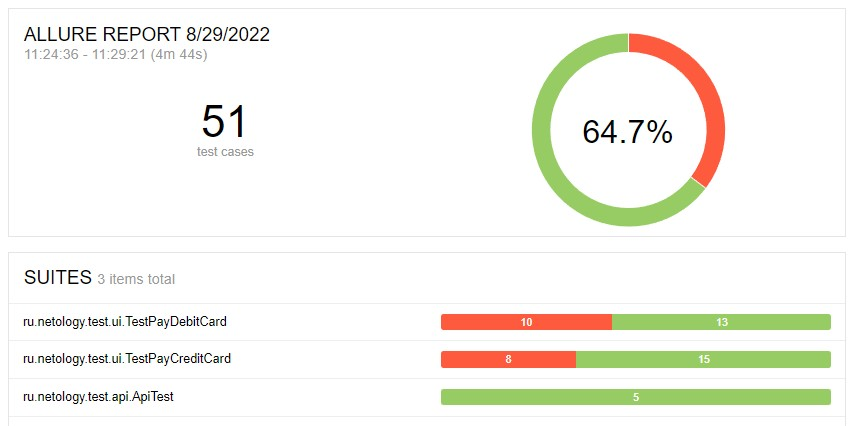
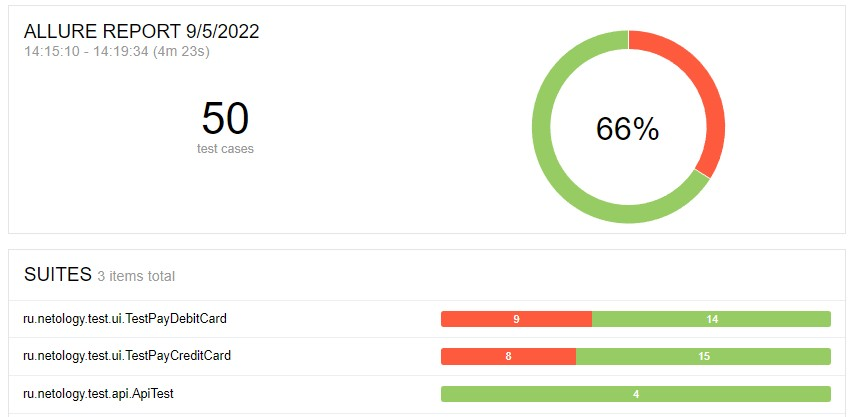
v4

diff --git a/src/test/java/ru.netology/page/AbstractPaymentPage.java b/src/test/java/ru.netology/page/AbstractPaymentPage.java
@@ -4,6 +4,7 @@ import com.codeborne.selenide.SelenideElement;
 import ru.netology.data.CardInfo;
 import java.time.Duration;
 
+import static com.codeborne.selenide.Condition.text;
 import static com.codeborne.selenide.Condition.visible;
 import static com.codeborne.selenide.Selectors.byText;
 import static com.codeborne.selenide.Selenide.$;
@@ -43,23 +44,19 @@ public abstract class AbstractPaymentPage {
     }
 
     public void sendingValidDataWithFieldCardNumberError (String error) {
-        assertEquals(error, fieldCardNumberError.getText());
-        fieldCardNumberError.shouldBe(visible);
+        fieldCardNumberError.shouldHave(text(error)).shouldBe(visible);
     }
 
     public void sendingValidDataWithFakerCardNumber (String error) {
-        assertEquals(error, notificationError.getText());
-        notificationError.shouldBe(visible, Duration.ofSeconds(15));
+        notificationError.shouldHave(text(error)).shouldBe(visible);
     }
 
     public void sendingValidDataWithFieldMonthError (String error) {
-        assertEquals(error, fieldMonthError.getText());
-        fieldMonthError.shouldBe(visible);
+        fieldMonthError.shouldHave(text(error)).shouldBe(visible);
     }
 
     public void sendingValidDataWithFieldYearError (String error) {
-        assertEquals(error, fieldYearError.getText());
-        fieldYearError.shouldBe(visible);
+        fieldYearError.shouldHave(text(error)).shouldBe(visible);
     }
 
     public void sendingEmptyNameValidData (CardInfo info) {
@@ -72,13 +69,11 @@ public abstract class AbstractPaymentPage {
     }
 
     public void sendingValidDataWithFieldNameError (String error) {
-        assertEquals(error, fieldOwnerError.getText());
-        fieldOwnerError.shouldBe(visible);
+        fieldOwnerError.shouldHave(text(error)).shouldBe(visible);
     }
 
     public void sendingValidDataWithFieldCVVError (String error) {
-        assertEquals(error, fieldCvcError.getText());
-        fieldCvcError.shouldBe(visible);
+        fieldCvcError.shouldHave(text(error)).shouldBe(visible);
     }
 
     public void sendEmptyForm() {

diff --git a/src/test/java/ru.netology/test/api/ApiTest.java b/src/test/java/ru.netology/test/api/ApiTest.java
@@ -12,6 +12,7 @@ import ru.netology.data.ApiHelper;
 import ru.netology.data.CardInfo;
 import ru.netology.data.DataHelper;
 import ru.netology.data.SQLHelper;
+import ru.netology.data.entity.CreditRequestEntity;
 import ru.netology.data.entity.OrderEntity;
 import ru.netology.data.entity.PaymentEntity;
 
@@ -21,8 +22,8 @@ import static ru.netology.data.ApiHelper.payByCard;
 public class ApiTest {
     CardInfo approvedCardInfo = DataHelper.getApprovedCard();
     CardInfo declinedCardInfo = DataHelper.getDeclinedCard();
-    String debitPath = "/payment";
-    String creditPath = "/credit";
+    String debitPath = "/api/v1/pay";
+    String creditPath = "/api/v1/credit";
 
     @BeforeAll
     public static void setUp() {
@@ -35,7 +36,7 @@ public class ApiTest {
 
     @BeforeEach
     public void prepare() {
-        //SQLHelper.databaseCleanUp();
+        SQLHelper.databaseCleanUp();
     }
 
 
@@ -56,8 +57,8 @@ public class ApiTest {
         CardInfo cardData = DataHelper.getApprovedCard();
         ApiHelper.payByCard(cardData, creditPath);
         OrderEntity order = SQLHelper.getOrderInfo();
-        PaymentEntity payment = SQLHelper.getPaymentInfo();
-        assertEquals(order.getPayment_id(), payment.getTransaction_id());
+        CreditRequestEntity payment = SQLHelper.getCreditRequestInfo();
+        assertEquals(order.getPayment_id(), payment.getBank_id());
         assertEquals("APPROVED", payment.getStatus());
     }
 
@@ -75,7 +76,7 @@ public class ApiTest {
     public void checkCreditPaymentInvalidCard() {
         CardInfo cardData = DataHelper.getDeclinedCard();
         ApiHelper.payByCard(cardData, creditPath);
-        PaymentEntity payment = SQLHelper.getPaymentInfo();
+        CreditRequestEntity payment = SQLHelper.getCreditRequestInfo();
         assertEquals("DECLINED", payment.getStatus());
     }
 }

diff --git a/src/test/java/ru.netology/data/Notification.java b/src/test/java/ru.netology/data/Notification.java
@@ -5,7 +5,7 @@ public class Notification {
     public static final String wrongFormatMsg = "Неверный формат";
     public static final String mustBeFilledMsg = "Поле обязательно для заполнения";
     public static final String invalidData = "Неверно указан срок действия карты";
-    public static final String expiredDate = "Истек срок действия карты";
+    public static final String expiredDate = "Истёк срок действия карты";
     public static final String declinedMsg = "Ошибка\n" +
             "Ошибка! Банк отказал в проведении операции.";
     public static final String approvedMsg = "Операция одобрена Банком.";

diff --git a/src/test/java/ru.netology/data/ApiHelper.java b/src/test/java/ru.netology/data/ApiHelper.java
@@ -13,7 +13,7 @@ public class ApiHelper {
     //private static CardInfo cardInfo;
     private static final RequestSpecification requestSpec = new RequestSpecBuilder()
             .setBaseUri("http://localhost")
-            .setPort(9999)
+            .setPort(8080)  //коннект к сервису, а не симулятору
             .setAccept(ContentType.JSON)
             .setContentType(ContentType.JSON)
             .log(LogDetail.ALL)

diff --git a/README.md b/README.md
@@ -27,14 +27,14 @@
 **5.** Запустить целевое приложение:
 
      для mySQL: 
-    java "-Dspring.datasource.url=jdbc:mysql://localhost:3306/app" -jar artifacts/aqa-shop.jar 
+    java "-Dspring.datasource.url=jdbc:mysql://localhost:3306/app" -jar artifacts/aqa-shop.jar
 
      для postgresgl:
      java "-Dspring.datasource.url=jdbc:postgresql://localhost:5432/app" -jar artifacts/aqa-shop.jar
 
-**5.** Открыть второй терминал
+**6.** Открыть второй терминал
 
-**6.** Во втором терминале запустить тесты:
+**7.** Во втором терминале запустить тесты:
 
     для mySQL:
     ./gradlew clean test "-Ddb.url=jdbc:mysql://localhost:3306/app"
@@ -42,17 +42,39 @@
     для postgresgl: 
     ./gradlew clean test "-Ddb.url=jdbc:postgresql://localhost:5432/app"
 
-**7.** Создать отчёт Allure и открыть в браузере:
+**8.** Создать отчёт Allure и открыть в браузере:
 
     ./gradlew allureServe
 
-**8.** Для завершения работы allureServe выполнить команду:
+**9.** Для завершения работы allureServe выполнить команду:
 
     Ctrl+C
 
-**9.** Для остановки работы контейнеров выполнить команду:
+**10.** Для остановки работы контейнеров выполнить команду:
 
     docker-compose down
+
+## Работа с данными
+
+### Просмотр данных в таблицах
+
+- Для MySQL:
+
+```select-mysql-table.cmd```
+
+- Для PostgreSQL:
+
+```select-postgres-table.cmd```
+
+### Удаление всех данных из таблиц
+
+- Для MySQL:
+
+```clear-mysql-table.cmd```
+
+- Для PostgreSQL:
+
+```clear-postgres-table.cmd```
 
 ### Дополнительные материалы:
 [Руководство по оформлению Markdown файлов](https://gist.github.com/Jekins/2bf2d0638163f1294637#Emphasis)

diff --git a/docs/Report.md b/docs/Report.md
@@ -4,7 +4,7 @@
 ![img.jpg](img.jpg)
 Из них:
 
-    - успешных оказалось 33 тест-кейсов (64,7%);
-    - не прошли 18 тест-кейс (35,3%).
+    - успешных оказалось 33 тест-кейсов (66%);
+    - не прошли 17 тест-кейс (34%).
 
 По багам в системе были заведены Issues (Баг репорты), которые необходимо исправить и закрыть.
